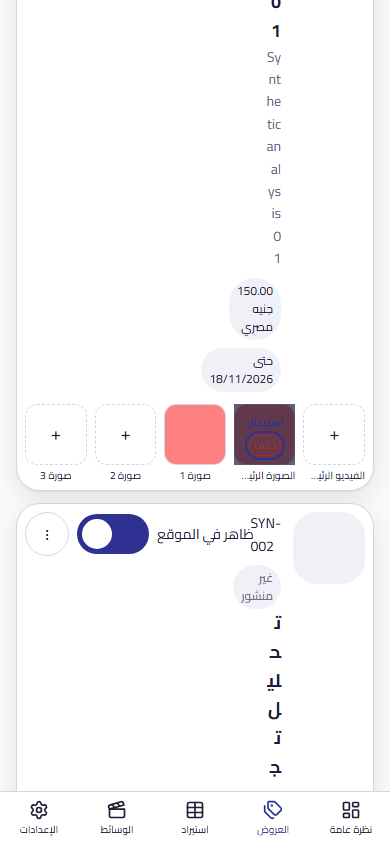
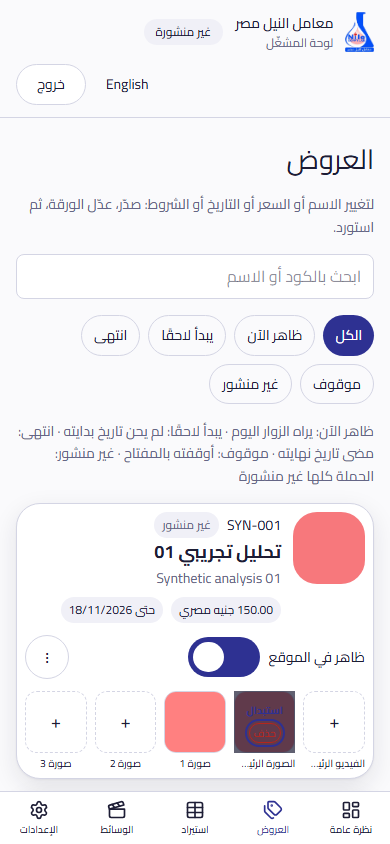
T06-F2: readable card head, header edges and evidence

diff --git a/src/components/campaign-offer-list.tsx b/src/components/campaign-offer-list.tsx
@@ -241,7 +241,7 @@ export function CampaignOfferList({
                       <ImageIcon className="size-6 text-muted" aria-hidden="true" />
                     )}
                   </div>
-                  <div className="min-w-0 flex-1">
+                  <div data-names className="min-w-40 flex-1">
                     <p className="flex flex-wrap items-center gap-2 text-sm">
                       <LatinRun>{row.code}</LatinRun>
                       <span className={`rounded-button px-2 py-1 text-xs ${statusChip(row.status)}`}>
@@ -273,19 +273,21 @@ export function CampaignOfferList({
                       </span>
                     </p>
                   </div>
-                  <div className="flex items-center gap-2">
-                    <span data-shown-label className="text-sm">
-                      {messages.operator.shownLabel}
-                    </span>
-                    {pending === row.id ? (
-                      <Loader2 className="size-4 animate-spin motion-reduce:animate-none" aria-hidden="true" />
-                    ) : null}
-                    <SlideSwitch
-                      checked={row.status !== "off"}
-                      disabled={pending === row.id}
-                      label={messages.operator.shownLabel}
-                      onToggle={() => void toggleShown(row)}
-                    />
+                  <div className="flex w-full items-center justify-between gap-2 sm:w-auto">
+                    <div className="flex items-center gap-2">
+                      <span data-shown-label className="text-sm">
+                        {messages.operator.shownLabel}
+                      </span>
+                      {pending === row.id ? (
+                        <Loader2 className="size-4 animate-spin motion-reduce:animate-none" aria-hidden="true" />
+                      ) : null}
+                      <SlideSwitch
+                        checked={row.status !== "off"}
+                        disabled={pending === row.id}
+                        label={messages.operator.shownLabel}
+                        onToggle={() => void toggleShown(row)}
+                      />
+                    </div>
                     <div className="relative">
                       <button
                         type="button"

diff --git a/e2e/dashboard-7-designer.spec.ts b/e2e/dashboard-7-designer.spec.ts
@@ -75,6 +75,31 @@ spec("card v3, red removals, centred dialogs and the library", async ({ page, br
         expect(Math.abs(box.width - boxes[0].width)).toBeLessThanOrEqual(1);
       }
       if (locale === "ar" && width === 1440) await shot(page, "dashboard-campaign-offers-ar-1440.png");
+      const cards = page.locator("[data-code]");
+      const cardCount = await cards.count();
+      expect(cardCount).toBeGreaterThan(0);
+      const nameWidths: number[] = [];
+      for (let index = 0; index < cardCount; index += 1) {
+        const entry = cards.nth(index);
+        const names = entry.locator("[data-names]");
+        const namesBox = await names.boundingBox();
+        expect(namesBox).toBeTruthy();
+        if (!namesBox) continue;
+        nameWidths.push(namesBox.width);
+        expect(namesBox.width).toBeGreaterThanOrEqual(160);
+        const lines = await names.locator("p").nth(1).evaluate((node) => {
+          const lineHeight = Number.parseFloat(getComputedStyle(node).lineHeight);
+          return node.getBoundingClientRect().height / lineHeight;
+        });
+        expect(lines).toBeLessThanOrEqual(2.05);
+        if (width < 640) {
+          const toggle = await entry.locator(".nel-switch").boundingBox();
+          expect(toggle).toBeTruthy();
+          if (toggle) expect(toggle.y).toBeGreaterThanOrEqual(namesBox.y + namesBox.height - 1);
+        }
+      }
+      console.log(`names-width ${locale} ${width} ${Math.min(...nameWidths)}`);
+      if (locale === "en" && width === 390) await shot(page, "dashboard-campaign-offers-en-390.png");
       const fits = await page.evaluate(() => document.documentElement.scrollWidth <= window.innerWidth);
       expect(fits).toBe(true);
       for (const name of tileNames[locale]) await expect(card.getByText(name, { exact: true })).toBeVisible();

diff --git a/e2e/public-site.spec.ts b/e2e/public-site.spec.ts
@@ -628,11 +628,16 @@ async function assertFloatingHeader(page: Page, width: number, locale: Locale) {
   expect(radius).toBeGreaterThanOrEqual(box.height / 2 - 0.5);
   const inset = width >= 768 ? 24 : 12;
   expect(box.y).toBeGreaterThanOrEqual(inset - 1);
+  const panel = page.locator("section").first().locator("div").first();
+  const panelBox = await panel.boundingBox();
+  expect(panelBox).toBeTruthy();
+  if (panelBox) {
+    expect(Math.abs(box.x - panelBox.x)).toBeLessThanOrEqual(2);
+    expect(Math.abs(box.x + box.width - (panelBox.x + panelBox.width))).toBeLessThanOrEqual(2);
+  }
   const section = await page.locator("section").first().boundingBox();
   expect(section).toBeTruthy();
   if (section) {
-    expect(Math.abs(box.x - section.x)).toBeLessThanOrEqual(2);
-    expect(Math.abs(box.x + box.width - (section.x + section.width))).toBeLessThanOrEqual(2);
     const gap = section.y - (box.y + box.height);
     expect(gap).toBeGreaterThanOrEqual(width >= 1440 ? 24 : 16);
   }

diff --git a/src/components/public/header.tsx b/src/components/public/header.tsx
@@ -15,7 +15,8 @@ const focusRing =
 
 export function Header({ subtitle, homeHref, siteName, markAlt, labSite }: HeaderProps) {
   return (
-    <header className="sticky top-3 z-30 mx-auto mt-3 mb-4 flex w-full max-w-7xl items-center gap-2 rounded-full border border-border bg-surface px-3 py-2 shadow-card md:top-6 md:mt-6 md:mb-6 md:gap-3 md:px-4">
+    <div className="sticky top-3 z-30 mx-auto mt-3 mb-4 w-full max-w-7xl px-4 sm:px-6 lg:px-8 md:top-6 md:mt-6 md:mb-6">
+      <header className="flex w-full items-center gap-2 rounded-full border border-border bg-surface px-3 py-2 shadow-card md:gap-3 md:px-4">
       <Link
         href={homeHref}
         className={`flex h-12 w-12 shrink-0 items-center justify-center overflow-hidden rounded-button bg-surface ${focusRing}`}
@@ -43,6 +44,7 @@ export function Header({ subtitle, homeHref, siteName, markAlt, labSite }: Heade
           {labSite.label}
         </a>
       ) : null}
-    </header>
+      </header>
+    </div>
   );
 }
